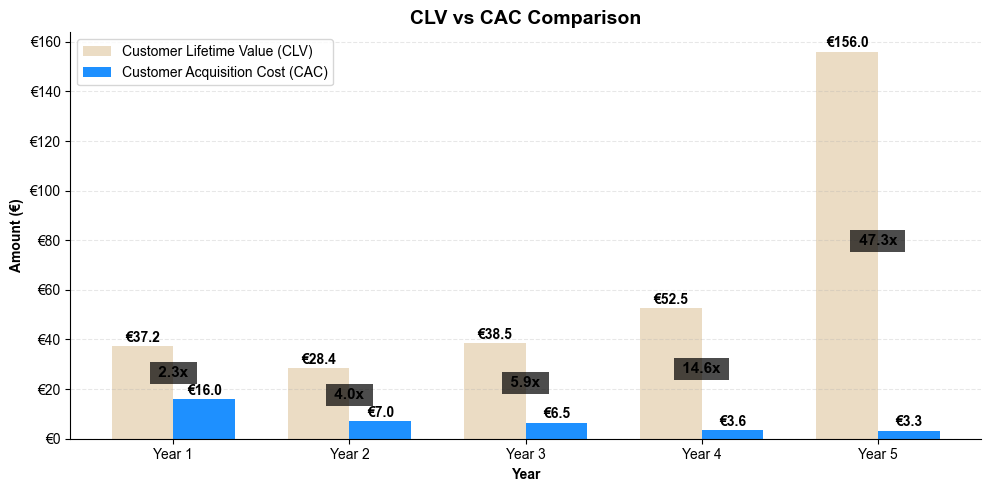
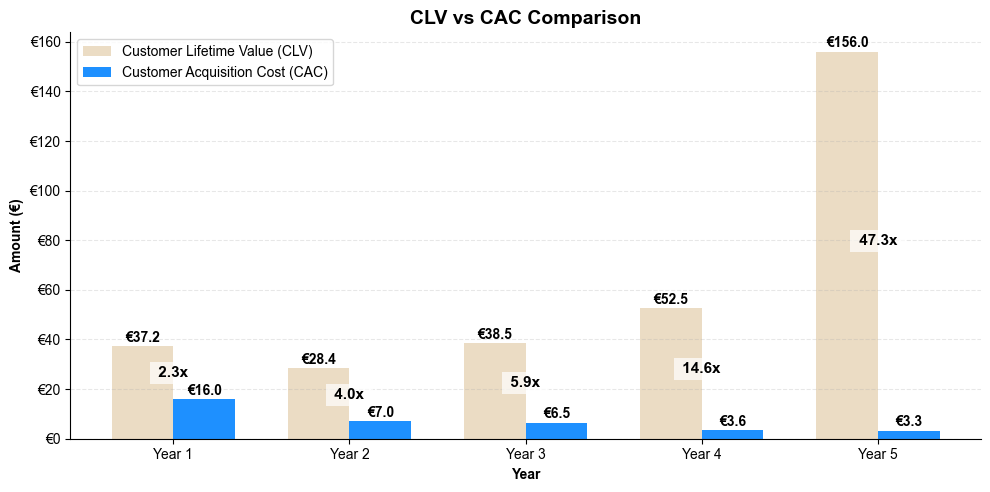
Update styles for consistent background color and section borders

diff --git a/styles.css b/styles.css
@@ -128,7 +128,7 @@ li {
 }
 
 .chart-container {
-    background-color: #E7CAC6; /* White container */
+    background-color: #f2ccdb; /* White container */
     border: 1px solid #222121; /* Lighter border */
     border-radius: 8px;
     padding: 20px;
@@ -250,7 +250,7 @@ nav a:hover, nav a:focus {
 }
 
 .metric {
-    background-color: rgba(255, 255, 255, 0.5); /* Semi-transparent white */
+    background-color: #e6b1c6; /* Semi-transparent white */
     border-radius: 8px;
     padding: 20px;
     min-width: 200px;
@@ -300,7 +300,7 @@ nav a:hover, nav a:focus {
 
 .data-table td, .summary-table td {
     padding: 10px 15px;
-    border-bottom: 1px solid var(--border-c); /* Use dark border for rows */
+    border-bottom: 1px solid #222223; /* Use dark border for rows */
     color: var(--base-text-color);
 }
 
@@ -592,7 +592,7 @@ nav a:hover, nav a:focus {
 }
 
 .table-wrapper::-webkit-scrollbar-thumb {
-    background: var(--primary-accent-bg); /* Mauve scrollbar */
+    background: #e6b1c6; /* Mauve scrollbar */
     border-radius: 4px;
 }
 

diff --git a/generate_charts.py b/generate_charts.py
@@ -467,7 +467,7 @@ def create_clv_cac_chart():
         # Create a small white background for better readability
         ax.text(mid_point_x, mid_point_y, f' {ratio:.1f}x ', 
                 ha='center', va='center', fontsize=11, fontweight='bold', color='black',
-                bbox=dict(facecolor='black', alpha=0.7, edgecolor='none', pad=3))
+                bbox=dict(facecolor='white', alpha=0.7, edgecolor='none', pad=3))
     
     ax.set_xlabel('Year', fontweight='bold', color='black')
     ax.set_ylabel('Amount (€)', fontweight='bold', color='black')
